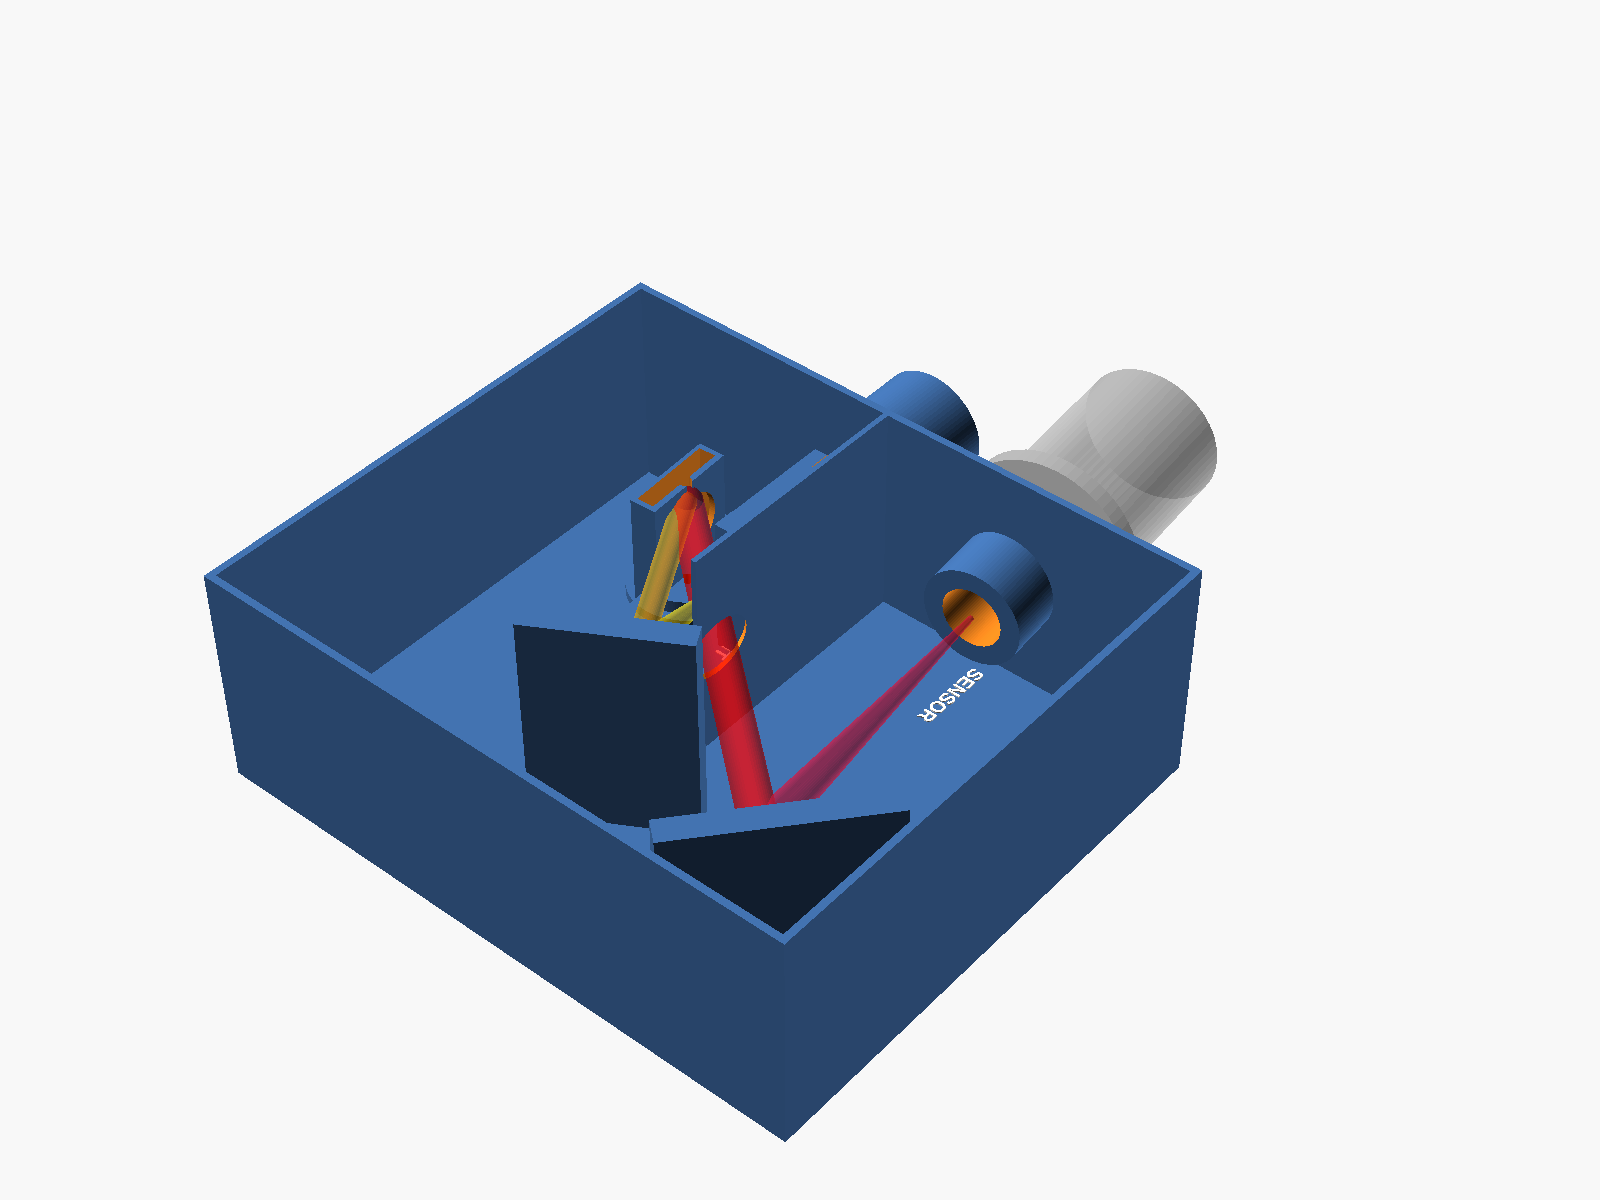
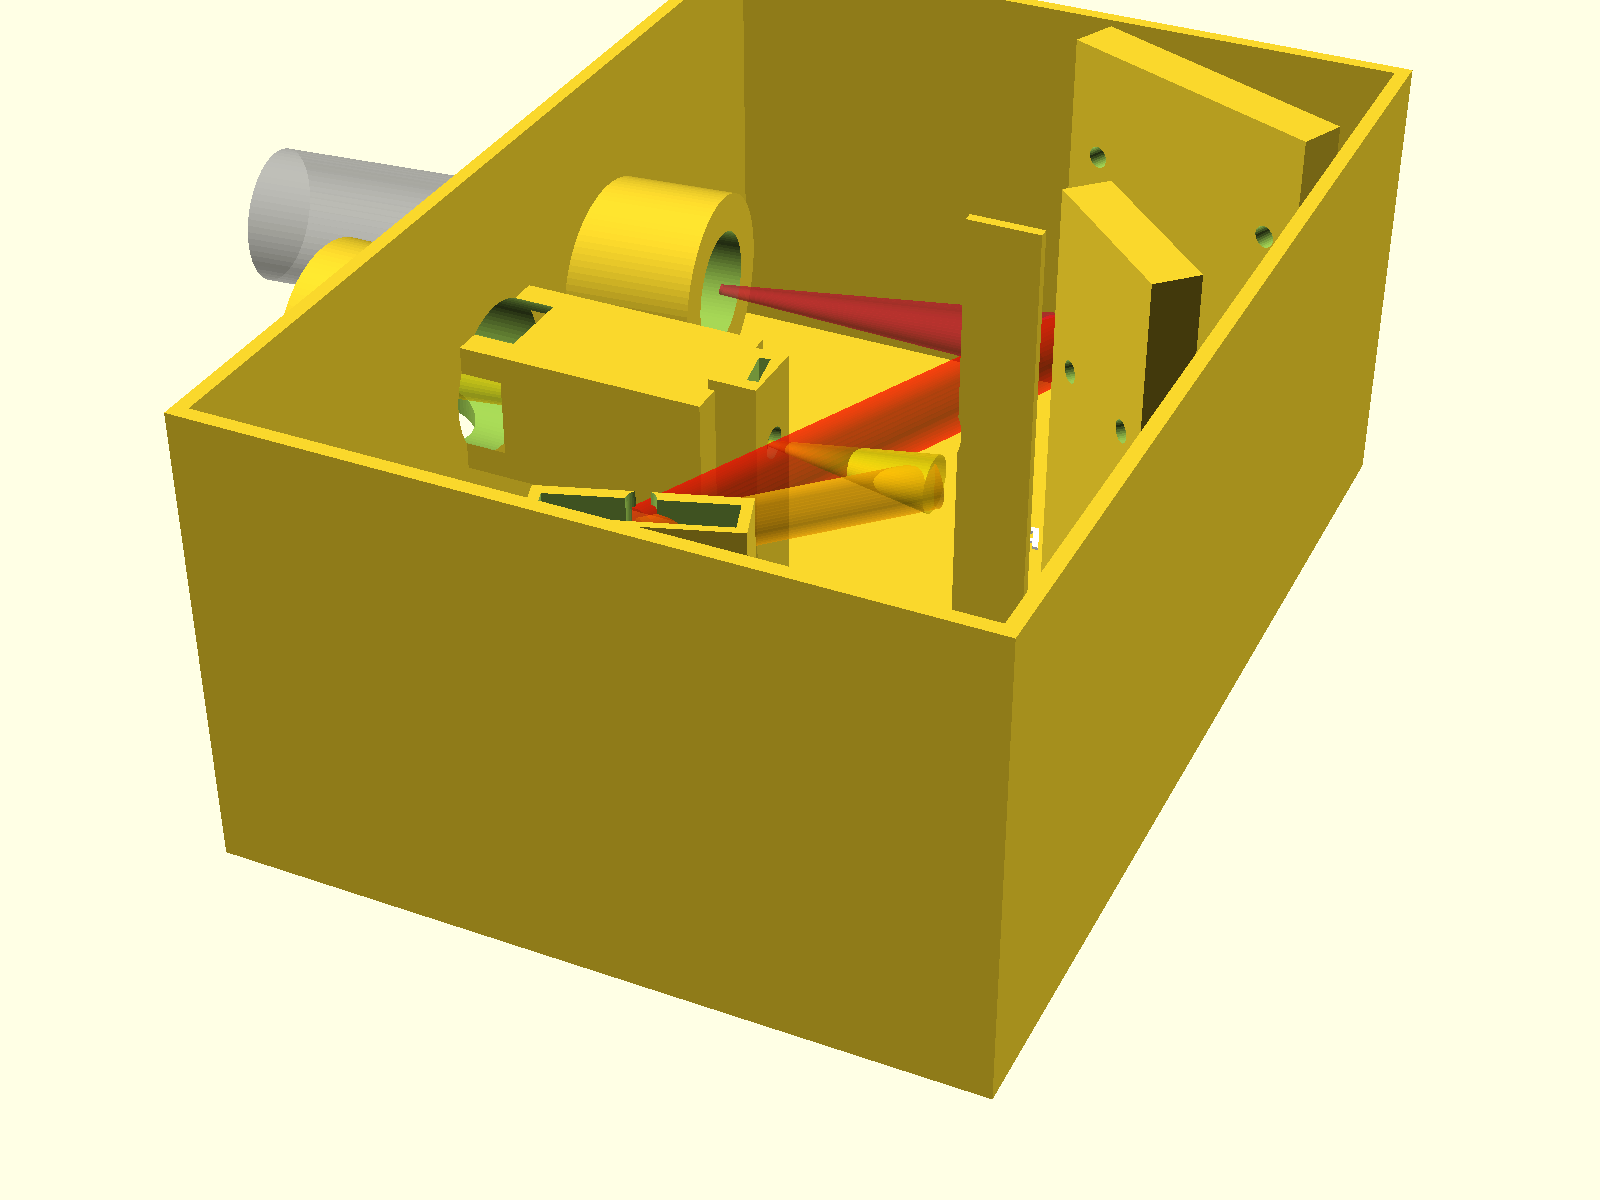
Re-freeze budget geometry: MPD246 camera, asymmetric tower, vane fix
CHOSEN = T_budget_ha_v2 (MPD124 45deg + MPD246 60deg silver), dev 21,
s2 -1, Lg 80, Lc 150 -- from a mech.py-constrained sweep over dev/Lg/Lc
and both fold senses. Zero collisions, zero fan vignettes: worst core
clearance +3.2mm (beam3 vs slit tower), fan grazes the tower blade at
+0.1mm by design (flocked, budgeted in STRAYLIGHT.md). Edge blur 12.9um,
center 2.6um, R~26k slit-limited. Camera exits 6deg off parallel at
70mm; clears a two-segment FSQ-85 envelope (drawtube r35 / tube r50).

Mechanical changes: slit tower slimmed to asymmetric CAD-true footprint
(bx -10..+4 blade, +-10 across); OAP1 KM plate 48mm (slab 54, hole 16);
stray vane start now COMPUTED by body_export from the traced fan
crossing (the rev-2 vane blocked beam3 across the full box -- caught by
adding the vane to the mech solids) and emitted as vaneX0.

mech.py: CAD-true asymmetric tower, per-module slab widths, two-segment
telescope, optional vane solid; envelope dims now ride in CHOSEN so
raytrace/body_export/mech verify one source of truth. body_geom.scad
and previews regenerated; guard passes.

diff --git a/design/mech.py b/design/mech.py
@@ -32,7 +32,8 @@ from raytrace import (Design, CONFIGS, CHOSEN, add, sub, mul, dot, cross,
 
 # ---------------------------------------------------------------- dims ----
 DIMS = dict(
-    slab_w=86.0,        # KM plate 80 + 6 (shg_body slab1W/slab2W)
+    slab1_w=86.0,       # OAP1 KM plate + 6 (shg_body slab1W)
+    slab2_w=86.0,       # OAP2 KM plate + 6 (shg_body slab2W)
     slab_half_x=43.0,   # vertical half-extent of a mirror module
     module_depth=59.0,  # mirror face -> back of mount slab (mirrorStack+slabT)
     rotor_r=28.0,       # grating turntable radius (rotD/2)
@@ -44,9 +45,18 @@ DIMS = dict(
     cam_body=(15.0, 85.0),     # extent along df relative to the sensor plane
     snout_r=28.0,       # scopeFlangeD/2
     snout=(-88.0, -38.0),      # snout extent along z (wall face to tip)
-    scope_r=50.0,       # FSQ-85 tube + fittings (knobs excluded, see note)
-    scope=(-540.0, -90.0),     # OTA extent along z behind the snout tip
-    tower_half=(37.5, 10.0, 10.0),  # slit tower half sizes (x, y, z)
+    # FSQ-85 OTA in two segments behind the M48 face at the snout tip:
+    # focuser drawtube + adapter stack first, then the main tube.
+    scope_r=35.0,       # focuser/drawtube radius
+    scope=(-190.0, -90.0),     # drawtube extent along z
+    scope2_r=50.0,      # main tube radius (focuser knobs excluded)
+    scope2=(-540.0, -190.0),   # main tube extent along z
+    # Slit tower, CAD-true asymmetric footprint (shg_body.scad): the
+    # downstream face is a thin blade wall at z = tower_z[1] (the beam3
+    # side), the cartridge structure extends upstream to tower_z[0].
+    tower_y_half=10.0,  # across-beam half width (cartridge + walls)
+    tower_z=(-10.0, 4.0),  # upstream/downstream faces (blade at +4)
+    tower_x_half=37.5,  # vertical half extent
     cell_depth=22.0,    # mirror + cell depth at the module face
     tower_cx=-22.5,     # tower box center height (deck at -beamH)
     slit_w_um=7.0,      # slit width for the Fraunhofer fan
@@ -192,7 +202,7 @@ def build_solids(d, dims=None):
         dm.update(dims)
     X = (1.0, 0.0, 0.0)
 
-    def module(name, face_center, back_dir, mirror_d):
+    def module(name, face_center, back_dir, mirror_d, slab_w):
         """Two boxes: the mirror in its cell at the face, and the KM
         plate/slab stack behind it (only the slab is slab_w wide; beside
         the cell, the first cell_depth mm is free air)."""
@@ -207,26 +217,40 @@ def build_solids(d, dims=None):
         slab = Box(name + "_mount",
                    add(face_center, mul(a1, cell_d + slab_d / 2.0)),
                    [a1, X, a3],
-                   [slab_d / 2.0, dm["slab_half_x"], dm["slab_w"] / 2.0])
+                   [slab_d / 2.0, dm["slab_half_x"], slab_w / 2.0])
         return [cell, slab]
 
+    z0, z1 = dm["tower_z"]
     solids = [
-        Box("slit_tower", (dm["tower_cx"], 0.0, 0.0),
+        Box("slit_tower", (dm["tower_cx"], 0.0, (z0 + z1) / 2.0),
             [(1.0, 0.0, 0.0), (0.0, 1.0, 0.0), (0.0, 0.0, 1.0)],
-            list(dm["tower_half"])),
-        *module("oap1", d.C1, mul(d.c1, -1.0), dm.get("colD", 50.8)),
-        *module("oap2", d.C2, d.c2, dm.get("camD", 76.2)),
+            [dm["tower_x_half"], dm["tower_y_half"], (z1 - z0) / 2.0]),
+        *module("oap1", d.C1, mul(d.c1, -1.0), dm.get("colD", 50.8),
+                dm["slab1_w"]),
+        *module("oap2", d.C2, d.c2, dm.get("camD", 76.2), dm["slab2_w"]),
         Capsule("rotor", (-60.0, d.G[1], d.G[2]), (40.0, d.G[1], d.G[2]),
                 dm["rotor_r"]),
         Capsule("snout", (0.0, 0.0, dm["snout"][0]),
                 (0.0, 0.0, dm["snout"][1]), dm["snout_r"]),
         Capsule("telescope", (0.0, 0.0, dm["scope"][0]),
                 (0.0, 0.0, dm["scope"][1]), dm["scope_r"]),
+        Capsule("telescope_ota", (0.0, 0.0, dm["scope2"][0]),
+                (0.0, 0.0, dm["scope2"][1]), dm["scope2_r"]),
         Capsule("camera_front", add(d.F2, mul(d.df, dm["cam_front"][0])),
                 add(d.F2, mul(d.df, dm["cam_front"][1])), dm["cam_front_r"]),
         Capsule("camera_body", add(d.F2, mul(d.df, dm["cam_body"][0])),
                 add(d.F2, mul(d.df, dm["cam_body"][1])), dm["cam_body_r"]),
     ]
+    # stray-light vane (optional): vertical strip at y = vane[2],
+    # from world z = vane[0] to vane[1], thickness vane[3]. body_export
+    # computes vane[0] so the diffracted fan clears it.
+    if dm.get("vane"):
+        x0, x1, vy, vt = dm["vane"]
+        solids.append(Box("vane", (2.5, vy + vt / 2.0, (x0 + x1) / 2.0),
+                          [(1.0, 0.0, 0.0), (0.0, 1.0, 0.0),
+                           (0.0, 0.0, 1.0)],
+                          [62.5, vt / 2.0, (x1 - x0) / 2.0]))
+
     # grating tuning arm: body angle = ang(gr normal) + 270 (shg_body.scad)
     th = math.atan2(d.gr.n[1], d.gr.n[2]) + math.radians(270.0)
     arm_dir = (0.0, math.sin(th), math.cos(th))
@@ -271,6 +295,8 @@ _SKIP = {  # rigidly connected pairs: contact is by construction
     frozenset(("oap2_cell", "oap2_mount")),
     frozenset(("camera_front", "camera_body")),
     frozenset(("snout", "telescope")),
+    frozenset(("snout", "telescope_ota")),
+    frozenset(("telescope", "telescope_ota")),
     frozenset(("slit_tower", "snout")),
 }
 
@@ -339,7 +365,8 @@ def build_chosen(lam_nm=656.28):
     d = Design(lines_per_mm=2400.0, order=1, dev=CHOSEN["dev"],
                s2=CHOSEN["s2"], Lg=CHOSEN["Lg"], Lc=CHOSEN["Lc"], **cfg)
     d.build(lam_nm)
-    dims = {k: CHOSEN[k] for k in ("colD", "camD") if k in CHOSEN}
+    dims = {k: CHOSEN[k] for k in ("colD", "camD", "grat_w",
+                                   "slab1_w", "slab2_w") if k in CHOSEN}
     return d, dims
 
 

diff --git a/design/body_export.py b/design/body_export.py
@@ -64,12 +64,34 @@ lines.append("gratNormAngs = [" +
 lines.append("// tuning detents: " +
              ", ".join(f"{l}={a:.1f}" for (l, a) in tunings))
 
+# ---- stray-light vane: start it where the diffracted fan has passed ----
+# The vane is a full-height wall at by = 25 separating the snout region
+# from the camera corridor. beam3 must cross by = 25, so the vane can only
+# begin downstream of the crossing plus the fan half-width plus margin.
+import mech
+guard_dims = {k: CHOSEN[k] for k in ("colD", "camD", "grat_w",
+                                     "slab1_w", "slab2_w") if k in CHOSEN}
+VANE_Y, VANE_T, VANE_END = 25.0, 3.0, 68.0
+gb, c2b2 = b(d.G), bdir(d.c2)
+t_cross = (VANE_Y - gb[1]) / c2b2[1]
+bx_cross = gb[0] + t_cross * c2b2[0]
+# fan radius at the crossing (same model as mech.py beams)
+_dm = dict(mech.DIMS); _dm.update(guard_dims)
+u_fan = 1.0 / (2.0 * _dm["fnum"]) + _dm["lam_nm"] * 1e-6 / (
+    _dm["slit_w_um"] * 1e-3)
+_ca = abs(dot(d.c1, d.gr.n)); _cb = abs(dot(d.c2, d.gr.n))
+r_fan = min(min(d.rfl1 * u_fan, 0.9 * _dm["colD"] / 2.0) / _ca,
+            _dm["grat_w"] / 2.0) * _cb + t_cross * (
+    _dm["band_nm"] * 1e-6 / (d.sigma * _cb))
+vane_x0 = math.ceil(bx_cross + r_fan / abs(c2b2[1]) + 4.0)
+lines.append(f"vaneX0 = {vane_x0:.1f};  // vane start: beam3 fan crosses "
+             f"by={VANE_Y:.0f} at bx={bx_cross:.1f}, fan r={r_fan:.1f}")
+
 # ---- clearance guard: full pairwise interference check (mech.py) ----
 # Beams are modeled at their aperture-clamped Fraunhofer fan width, not as
 # chief rays. Any negative clearance aborts the export.
-import mech
-guard_dims = {k: CHOSEN[k] for k in ("colD", "camD") if k in CHOSEN}
-mech.assert_clear(d, margin=5.0, dims=guard_dims)
+guard_dims["vane"] = (vane_x0, VANE_END, VANE_Y, VANE_T)
+mech.assert_clear(d, margin=3.0, dims=guard_dims)
 
 with open("body_geom.scad", "w") as f:
     f.write("\n".join(lines) + "\n")

diff --git a/design/raytrace.py b/design/raytrace.py
@@ -289,14 +289,24 @@ CONFIGS = {
     "E_edmund_30-30": dict(rfl1=108.89, th1=30.0, rfl2=272.23, th2=30.0),
     # Ha-only budget prototype: Thorlabs protected silver, in stock, £394/pair
     "T_budget_ha": dict(rfl1=50.8, th1=45.0, rfl2=101.6, th2=45.0),
+    # v2: MPD124 collimator + MPD246 60 deg camera (£353). The 60 deg fold
+    # exits the camera parallel to the telescope (kills the 45/45 pair's
+    # convergent-exit collision family). Frozen via mech.py sweep.
+    "T_budget_ha_v2": dict(rfl1=50.8, th1=45.0, rfl2=101.6, th2=60.0),
 }
 
 # Chosen geometry for the CURRENT BUILD. Production broadband design:
-#   config="B_edmund_30s-45", dev=20, s2=-1, Lg=117, Lc=240 (RESULTS.md)
-# Active: Ha-only budget prototype on Thorlabs silver (MPD124+MPD144),
-# 7um slit, Shelyak 25mm grating, IMX678 camera.
-CHOSEN = dict(config="T_budget_ha", dev=25.0, s2=-1.0,
-              Lg=85.0, Lc=175.0, colD=25.4, camD=25.4)
+#   config="B_edmund_30s-45", dev=20, s2=-1, Lg=117, Lc=240 -- CORRIDOR
+#   INFEASIBLE per mech.py (MECH.md); production re-freeze pending.
+# Active: Ha-only budget prototype, Thorlabs silver MPD124 (45 deg
+# collimator) + MPD246 (60 deg camera), 7um slit, Shelyak 25mm grating,
+# IMX678 camera. FROZEN 2026-08-02 by mech.py constrained sweep: worst
+# core clearance +3.2mm, fan +0.1mm, edge blur 12.9um (+-0.5nm), exit
+# 6 deg off telescope-parallel at sensor y=70. The extra keys are the
+# mechanical envelope inputs mech.py/body_export.py verify against.
+CHOSEN = dict(config="T_budget_ha_v2", dev=21.0, s2=-1.0,
+              Lg=80.0, Lc=150.0, colD=25.4, camD=50.8,
+              grat_w=25.0, slab1_w=54.0, slab2_w=86.0)
 
 LINES = [  # (label, lambda nm, lines/mm, order)
     ("CaK 393", 393.37, 2400.0, 1),

diff --git a/design/stray.py b/design/stray.py
@@ -149,7 +149,9 @@ def run():
     order_map(d, dims, "production B_edmund dev+16 Lg180 Lc290")
 
     db, dimsb = mech.build_chosen()
-    order_map(db, dimsb, "budget T_budget_ha dev+25 Lg85 Lc175")
+    from raytrace import CHOSEN
+    order_map(db, dimsb, f"budget {CHOSEN['config']} dev+{CHOSEN['dev']:.0f} "
+              f"Lg{CHOSEN['Lg']:.0f} Lc{CHOSEN['Lc']:.0f}")
 
     tis_table()
     veiling_budget()

diff --git a/design/BUDGET.md b/design/BUDGET.md
@@ -1,36 +1,51 @@
-# Ha-only budget prototype ("sanity build") — 2026-07-31
+# Ha-only budget prototype ("sanity build") — rev 3, 2026-08-02
 
-**MECH NOTE (2026-08-02):** mech.py (full-width beam interference checker) finds the diffracted-beam corridor between the slit tower and the OAP1 module infeasible for THIS GEOMETRY at real beam width; earlier clearances were chief-ray only. Do not freeze hardware from these numbers until the corridor decision in MECH.md is made. Stray-light budget: STRAYLIGHT.md.
+**GEOMETRY RE-FROZEN 2026-08-02** after the mech.py corridor findings
+(MECH.md): camera mirror swapped MPD144 -> MPD246 (60 deg), asymmetric
+slit tower, 48 mm OAP1 KM plate, auto-placed stray vane. body_export.py
+now passes its interference guard with zero collisions and zero fan
+vignettes. Stray-light budget: STRAYLIGHT.md.
 
 Goal: cheapest build that validates the all-reflective concept end-to-end
 (geometry, printed mounts, rotator, alignment flow, GhostSun integration)
-using owned parts wherever possible. Active CHOSEN config: T_budget_ha.
+using owned parts wherever possible. Active CHOSEN config: T_budget_ha_v2.
 
 ## New purchases
 
 | item | part | price |
 |---|---|---|
 | collimator | Thorlabs MPD124-P01 (Ø25.4, 45°, RFL 50.8, prot. silver) | £197 |
-| camera mirror | Thorlabs MPD144-P01 (Ø25.4, 45°, RFL 101.6, prot. silver) | £197 |
+| camera mirror | Thorlabs MPD246-P01 (Ø50.8, 60°, RFL 101.6, prot. silver) | £353 |
 | 4x 100 TPI fine adjusters | Thorlabs | ~£80 |
 | balls, springs, dowel, inserts, screws | — | ~£25 |
 | M42 helical focuser | generic | ~£40 |
-| **total new spend** | | **~£540 (~$690)** |
+| **total new spend** | | **~£695 (~$890)** |
+
+(The MPD144 45/45 pairing was £156 cheaper and 6 um sharper at the disk
+edge, but no placement of it clears the telescope: its camera exit
+converges 25 deg onto the OTA. The 60 deg MPD246 exits 6 deg off
+parallel at 70 mm lateral separation and passes the interference check.)
 
 Owned/printed: Shelyak 2400 l/mm 25 mm grating, 7 um slit, ToupTek
 G3M678M (IMX678), FSQ-85 @ 65 mm, printed body + mounts + rotor (ASA).
 
-## Geometry (CHOSEN)
+## Geometry (CHOSEN, frozen by mech.py sweep 2026-08-02)
 
-45/45 silver pair, dev = 25 deg off-Littrow, s2 = -1, Lg = 85, Lc = 175.
-Mag 2.0: slit image 14.0 um spatial / 7.5 um dispersion (anamorphism
-0.535); disk image 8.4 mm on the 7.68 mm IMX678 axis -> poles clip ~9%
-(acceptable for prototype; IMX571 production path un-clips).
+MPD124 (45 deg) + MPD246 (60 deg), dev = 21 deg off-Littrow, s2 = -1,
+Lg = 80, Lc = 150. alpha 63.7 / beta 42.7, anamorphism 0.603. Mag 2.0:
+slit image 14.0 um spatial / 8.4 um dispersion; disk image 8.4 mm on the
+7.68 mm IMX678 axis -> poles clip ~9% (unchanged; IMX571 path un-clips).
+Worst core-beam clearance +3.2 mm (beam3 vs slit tower); diffraction-fan
+wings graze the tower blade at +0.1 mm by design -> flock that face
+(STRAYLIGHT.md). Camera exits at -174 deg (6 deg off telescope-parallel),
+sensor at body (-46, 70).
 
-## Performance at Ha
+## Performance at Ha (+-0.5 nm window, RMS radii)
 
-- Blur: 0 (center) / 9.2 um (disk edge) / ~19 um (slit end) vs 14 um image.
-- R ~ 27,000 slit-limited (0.024 nm) — resolves the 0.05 nm core.
+- Blur: 2.6 um (center) / 12.9 um (disk edge) / ~30 um (slit end) vs
+  14 um slit image. The 45/60 pair gives up ~4 um at the edge vs the
+  collision-impossible 45/45; center of disk is unaffected.
+- R ~ 26,000 slit-limited (0.025 nm) — resolves the 0.05 nm core.
 - Throughput: silver^2 (~95%) x grating 88% ~ 84% net — HIGHER than the
   production Al design at Ha (81% x 94% ~ 76%). The short collimator's
   tight fan is why the 25 mm grating stops mattering.
@@ -43,7 +58,7 @@ Mag 2.0: slit image 14.0 um spatial / 7.5 um dispersion (anamorphism
 - Ha only: silver kills Ca K (~25% net at 393). He I 1083 remains
   possible later (silver ~98% there; needs the 1200 l/mm grating and the
   10 um slit; collimator fan is marginal at Ø25.4 — check before buying).
-- Slit ends soft (~19 um) — full-disk work lives inside the good field.
+- Slit ends soft (~30 um) — full-disk work lives inside the good field.
 - Disk pole clip ~9% on IMX678.
 
 ## Upgrade path

diff --git a/design/MECH.md b/design/MECH.md
@@ -77,6 +77,30 @@ Recommendation: path 1. It is a mechanical change only (tower + OAP1
 plate), keeps PERFECT_HA-class optics, and turns the fan clip into a
 designed, flocked baffle edge instead of an accident.
 
+## Re-freeze record (2026-08-02)
+
+The budget prototype was re-frozen with path 1 plus the camera swap:
+
+* config T_budget_ha_v2: MPD124 45 deg collimator + MPD246 60 deg camera
+  (the 45/45 pair's exit converges 25 deg onto the OTA; no placement
+  clears it. The 60 deg fold exits 6 deg off parallel and clears the
+  two-segment FSQ-85 envelope: drawtube r35 to -190, tube r50 beyond).
+* CHOSEN = dev 21.0, s2 -1, Lg 80, Lc 150 from the constrained sweep
+  (both fold senses swept; s2=+1 feasible but always blurrier). Worst
+  core clearance +3.2 mm, fan +0.1 mm (grazes the tower blade: flocked,
+  budgeted in STRAYLIGHT.md). Edge blur 12.9 um, center 2.6 um.
+* Slit tower slimmed to the CAD-true asymmetric footprint: bx -10..+4
+  with the +4 blade wall, across-beam width +-10 (was +-17).
+* OAP1 KM plate 48 mm (slab 54, km1Hole 16): lever 16 mm -> 0.9 deg/turn
+  on 100 TPI, ~7x finer than the arcminute tolerances need.
+* NEW CATCH while re-freezing: the stray-light vane at by=25 spanned the
+  full box and blocked beam3 in the rev-2 committed body. body_export.py
+  now computes vaneX0 from the traced fan crossing (+4 mm margin), emits
+  it into body_geom.scad, and the vane is a mech.py solid in the guard.
+* Production (B_edmund) remains unfrozen: same recipe applies but the
+  corridor is tighter (bigger fan); re-run the constrained sweep with
+  production dims before ordering Edmund glass.
+
 ## Checker limitations
 
 * Envelope dimensions default to shg_body.scad values (86 mm slabs,

diff --git a/design/STRAYLIGHT.md b/design/STRAYLIGHT.md
@@ -46,8 +46,8 @@ by across):
 * production dev+16, Lg180: zero order leaves the grating toward the
   entry-side wall, first structure ~30 mm from the grating on the wall
   beyond it. Trap: matte black wedge behind/beside the grating turntable.
-* budget dev+25, Lg85: same topology, wall hit ~91 mm out, ~120 mm from
-  the sensor. Same trap concept.
+* budget (frozen dev+21, Lg80): same topology, wall hit ~96 mm out,
+  ~120 mm from the sensor. Same trap concept.
 
 The zero order is also the alignment lamp: make the trap removable or
 hinged, because zero-order autocollimation sets slit/OAP1 despace.
